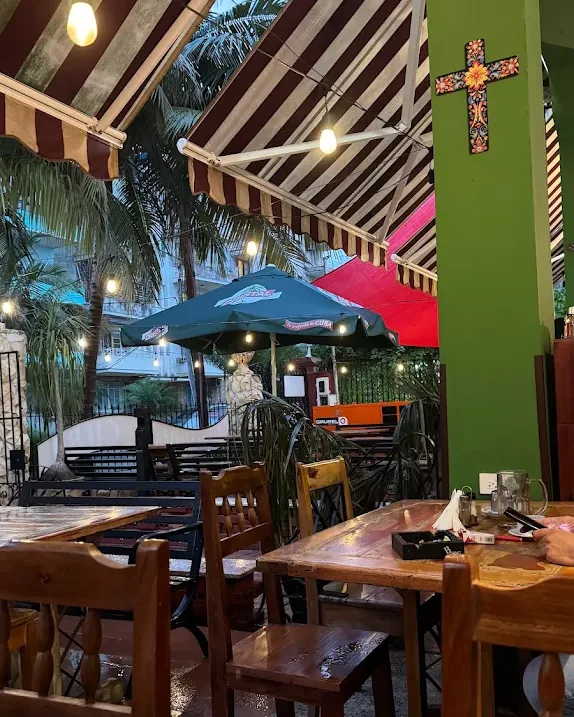
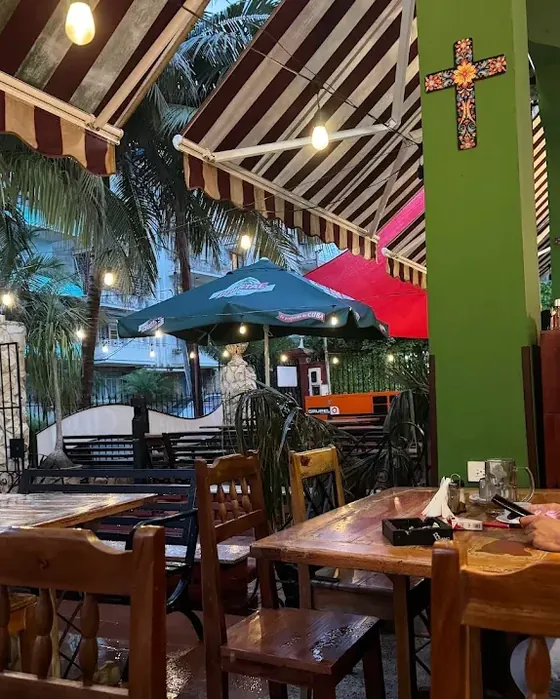
Add files via upload

diff --git a/index.html b/index.html
@@ -31,8 +31,12 @@
   --sans:-apple-system,BlinkMacSystemFont,'Segoe UI',Roboto,'Helvetica Neue',Arial,sans-serif;
 
   --gut:clamp(18px,5vw,40px);
-  --maxw:760px;
+  --maxw:760px;      /* móvil y tableta: una columna cómoda de leer */
 }
+/* En pantallas grandes la carta se despliega, como el papel al abrirlo */
+@media (min-width:1000px){ :root{ --maxw:980px } }
+@media (min-width:1320px){ :root{ --maxw:1180px } }
+@media (min-width:1680px){ :root{ --maxw:1300px } }
 *{box-sizing:border-box;margin:0;padding:0}
 html{-webkit-text-size-adjust:100%;scroll-behavior:smooth}
 @media (prefers-reduced-motion:reduce){html{scroll-behavior:auto}
@@ -76,6 +80,11 @@ nav a[aria-current="true"]{color:var(--rubro)}
 /* ═══ PORTADA ═══ */
 .hero{position:relative;isolation:isolate;text-align:center;
   padding:clamp(38px,9vw,76px) 0 clamp(30px,7vw,54px)}
+@media (min-width:1000px){
+  .hero{padding-top:clamp(56px,7vw,104px);padding-bottom:clamp(44px,6vw,80px)}
+  .hero img.logo{width:min(38vw,340px)}
+  .hero .slogan{font-size:22px}
+}
 
 /* Fondo fotográfico: monocromo sobre piedra, así cualquier foto entra en paleta */
 .hero-foto{position:absolute;inset:0;z-index:-1;overflow:hidden;
@@ -102,7 +111,7 @@ nav a[aria-current="true"]{color:var(--rubro)}
       rgba(234,233,230,.72) 80%,
       var(--piedra) 100%)}
 
-.hero img.logo{width:min(74vw,282px);height:auto;display:block;
+.hero img.logo{width:min(74vw,300px);height:auto;display:block;
   margin:0 auto clamp(20px,5vw,30px);position:relative}
 .hero.con-foto{padding-top:clamp(54px,12vw,96px);padding-bottom:clamp(44px,10vw,74px)}
 
@@ -159,7 +168,7 @@ section{padding:clamp(34px,8vw,62px) 0}
 /* ── Índice de secciones ── */
 .indice{display:flex;flex-wrap:wrap;gap:7px;justify-content:center;
   margin-bottom:clamp(26px,6vw,40px)}
-.indice button{font-family:var(--sans);font-size:12px;letter-spacing:.07em;
+.indice button{font-family:var(--sans);font-size:12.5px;letter-spacing:.07em;
   text-transform:uppercase;padding:9px 14px;min-height:40px;
   border:1px solid var(--linea);background:var(--piedra-clara);
   color:var(--tinta-suave);cursor:pointer;
@@ -272,6 +281,37 @@ footer .orn{margin-bottom:20px}
 .visor .sig{right:4px}
 @media (max-width:520px){.visor .flecha{width:44px;font-size:24px}}
 @media (prefers-reduced-motion:reduce){.visor figure{transform:none}}
+
+
+/* ── Pantalla ancha: la carta en dos columnas, como la impresa ── */
+@media (min-width:1000px){
+  .platos{
+    column-count:2;
+    column-gap:clamp(34px,4vw,60px);
+    column-fill:balance;
+  }
+  /* Nada se parte por la mitad entre columnas */
+  .platos .item,
+  .platos .banda{ break-inside:avoid; page-break-inside:avoid }
+  /* Una banda nunca queda huérfana al final de una columna */
+  .platos .banda{ break-after:avoid; page-break-after:avoid }
+
+  .prosa{ font-size:18.5px }
+  .item h3,.item .precio{ font-size:17.5px }
+}
+
+/* La galería crece con la pantalla en vez de estirar tres fotos */
+@media (min-width:1000px){
+  .galeria{ grid-template-columns:repeat(3,1fr); gap:14px }
+}
+@media (min-width:1320px){
+  .galeria{ grid-template-columns:repeat(3,1fr); gap:16px }
+}
+
+/* Los datos de contacto respiran en tres columnas reales */
+@media (min-width:1000px){
+  .datos{ grid-template-columns:repeat(3,1fr); gap:34px 44px }
+}
 
 :focus-visible{outline:2px solid var(--rubro);outline-offset:3px}
 
@@ -445,7 +485,7 @@ function pintarMenu(data){
              esc(sec.titulo_tematico) + '</button>';
 
     html += '<div class="grupo rev" id="' + id + '" data-i="' + i + '"' +
-            (i===0 ? "" : ' hidden') + '>';
+            (i===0 ? "" : ' hidden') + '><div class="platos">';
 
     var yaCoctel = false;
     (sec.subsecciones || []).forEach(function(sub){
@@ -467,6 +507,7 @@ function pintarMenu(data){
       });
     });
 
+    html += '</div>';   /* cierra .platos */
     if(sec.id === "postres")
       html += '<img class="taza" src="taza-tinta.png" alt="" loading="lazy" width="132" height="138">';
     if(sec.pie) html += '<p class="nota-carta">' + esc(sec.pie) + '</p>';
@@ -559,10 +600,21 @@ function pintarLocal(local, sello){
            '<span>' + esc(x.abre) + " – " + esc(x.cierra) + '</span></div>';
   }).join("");
 
+  /* Acepta tanto una URL completa como un número o un usuario suelto */
+  function enlace(valor, base, quitar){
+    var v = String(valor || "").trim();
+    if(!v) return "";
+    if(/^https?:\/\//i.test(v)) return v;          // ya es una dirección
+    return base + v.replace(quitar, "");
+  }
+
   var contacto = "";
-  if(local.telefono)  contacto += '<p><a href="tel:'+esc(local.telefono.replace(/\s/g,""))+'">'+esc(local.telefono)+'</a></p>';
-  if(local.whatsapp)  contacto += '<p><a href="https://wa.me/'+esc(local.whatsapp.replace(/\D/g,""))+'">WhatsApp</a></p>';
-  if(local.instagram) contacto += '<p><a href="https://instagram.com/'+esc(local.instagram.replace("@",""))+'">'+esc(local.instagram)+'</a></p>';
+  if(local.telefono)
+    contacto += '<p><a href="tel:'+esc(local.telefono.replace(/[^\d+]/g,""))+'">'+esc(local.telefono)+'</a></p>';
+  if(local.whatsapp)
+    contacto += '<p><a href="'+esc(enlace(local.whatsapp,"https://wa.me/",/\D/g))+'" target="_blank" rel="noopener">WhatsApp</a></p>';
+  if(local.instagram)
+    contacto += '<p><a href="'+esc(enlace(local.instagram,"https://instagram.com/",/^@/))+'" target="_blank" rel="noopener">Instagram</a></p>';
   if(!contacto) contacto = '<p style="color:var(--tinta-suave)">Añade tu teléfono desde el editor.</p>';
 
   $("#datos").innerHTML =

diff --git a/editor.html b/editor.html
@@ -284,7 +284,7 @@ function pintar(){
        '</div></div></details>';
 
   /* — Imágenes — */
-  var G = L.galeria || (L.galeria = [{img:"",alt:"Salón"},{img:"",alt:"Terraza"},{img:"",alt:"Cocina"}]);
+  var G = L.galeria || (L.galeria = []);
   h += '<details class="panel"><summary>Imágenes' +
        '<span class="cuenta">portada y galería</span></summary><div class="cuerpo">' +
        '<p class="pista" style="margin:0 0 14px">Escribe aquí el nombre del archivo. ' +
@@ -293,13 +293,16 @@ function pintar(){
        '<div class="rejilla">' +
          campo("Foto de portada (encabezado)","local.portada",L.portada) +
        '</div>' +
-       '<div style="margin-top:18px"><span class="rubro">Galería de «El lugar»</span>' +
+       '<div style="margin-top:18px"><span class="rubro">Galería · ' + G.length + ' fotos</span>' +
          G.map(function(f,i){
-           return '<div class="rejilla" style="margin-top:8px">' +
+           return '<div class="rejilla" style="margin-top:8px;align-items:end">' +
              campo("Archivo","local.galeria."+i+".img",f.img) +
              campo("Archivo grande (al ampliar)","local.galeria."+i+".grande",f.grande) +
-             campo("Texto alternativo","local.galeria."+i+".alt",f.alt) + '</div>';
+             campo("Texto alternativo","local.galeria."+i+".alt",f.alt) +
+             '<button class="mini peligro" data-delfoto="'+i+'" style="max-width:100px">Quitar</button>' +
+           '</div>';
          }).join("") +
+         '<button style="margin-top:12px" data-addfoto="1">+ Añadir foto</button>' +
        '</div>' +
        '<p class="pista" style="margin-top:14px">Deja el archivo en blanco y el hueco ' +
        'queda vacío en la web, sin romper nada. El «archivo grande» es la foto completa que se ve al ampliar.</p>' +
@@ -409,6 +412,14 @@ function enlazar(){
         D.secciones[s[0]].subsecciones.splice(s[1],1);
         marcarSucio(); pintar(); aviso("Grupo eliminado");
       }
+    }
+    if(b.dataset.addfoto){
+      (D.local.galeria = D.local.galeria || []).push({img:"",grande:"",alt:""});
+      marcarSucio(); pintar(); aviso("Foto añadida");
+    }
+    if(b.dataset.delfoto){
+      D.local.galeria.splice(+b.dataset.delfoto, 1);
+      marcarSucio(); pintar(); aviso("Foto quitada");
     }
     if(b.id === "aj-ir") ajustar();
   });
